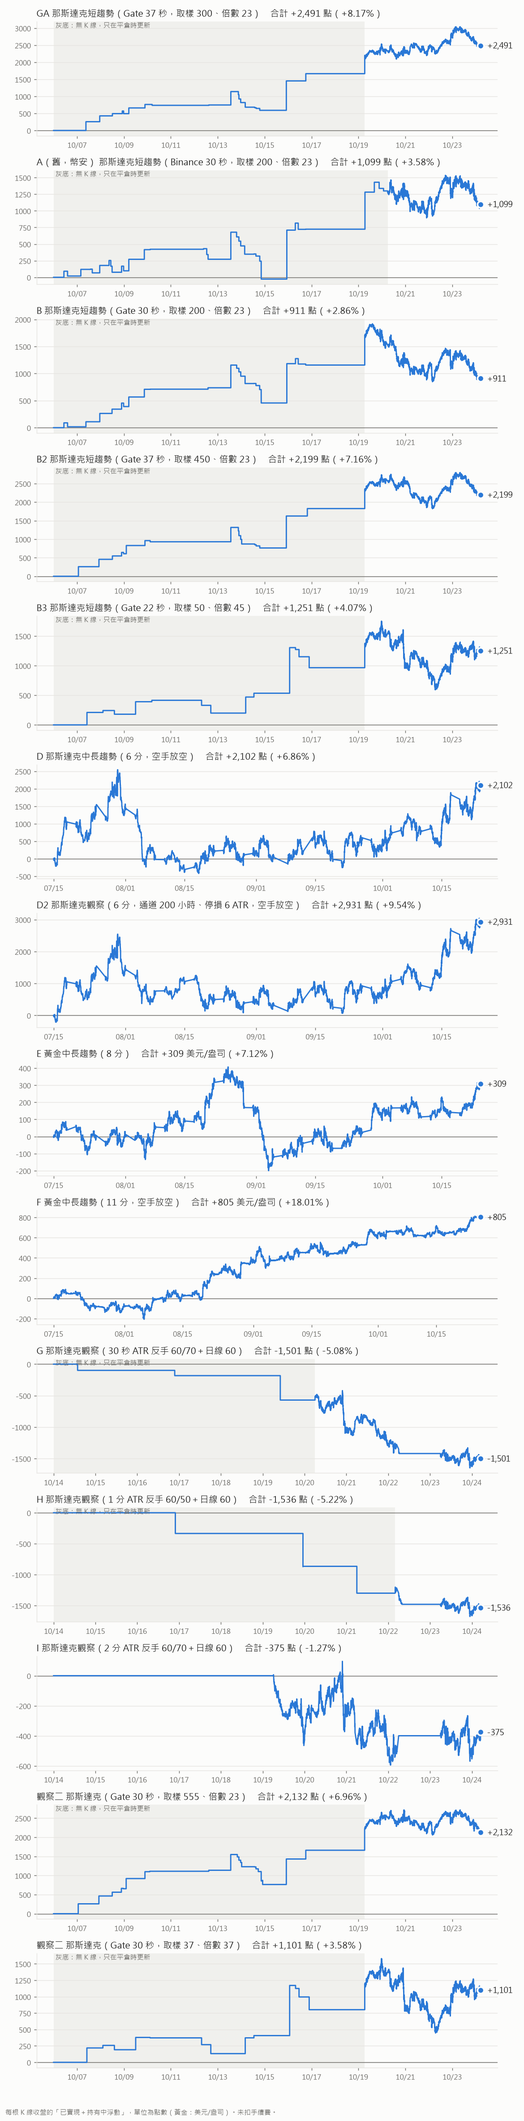
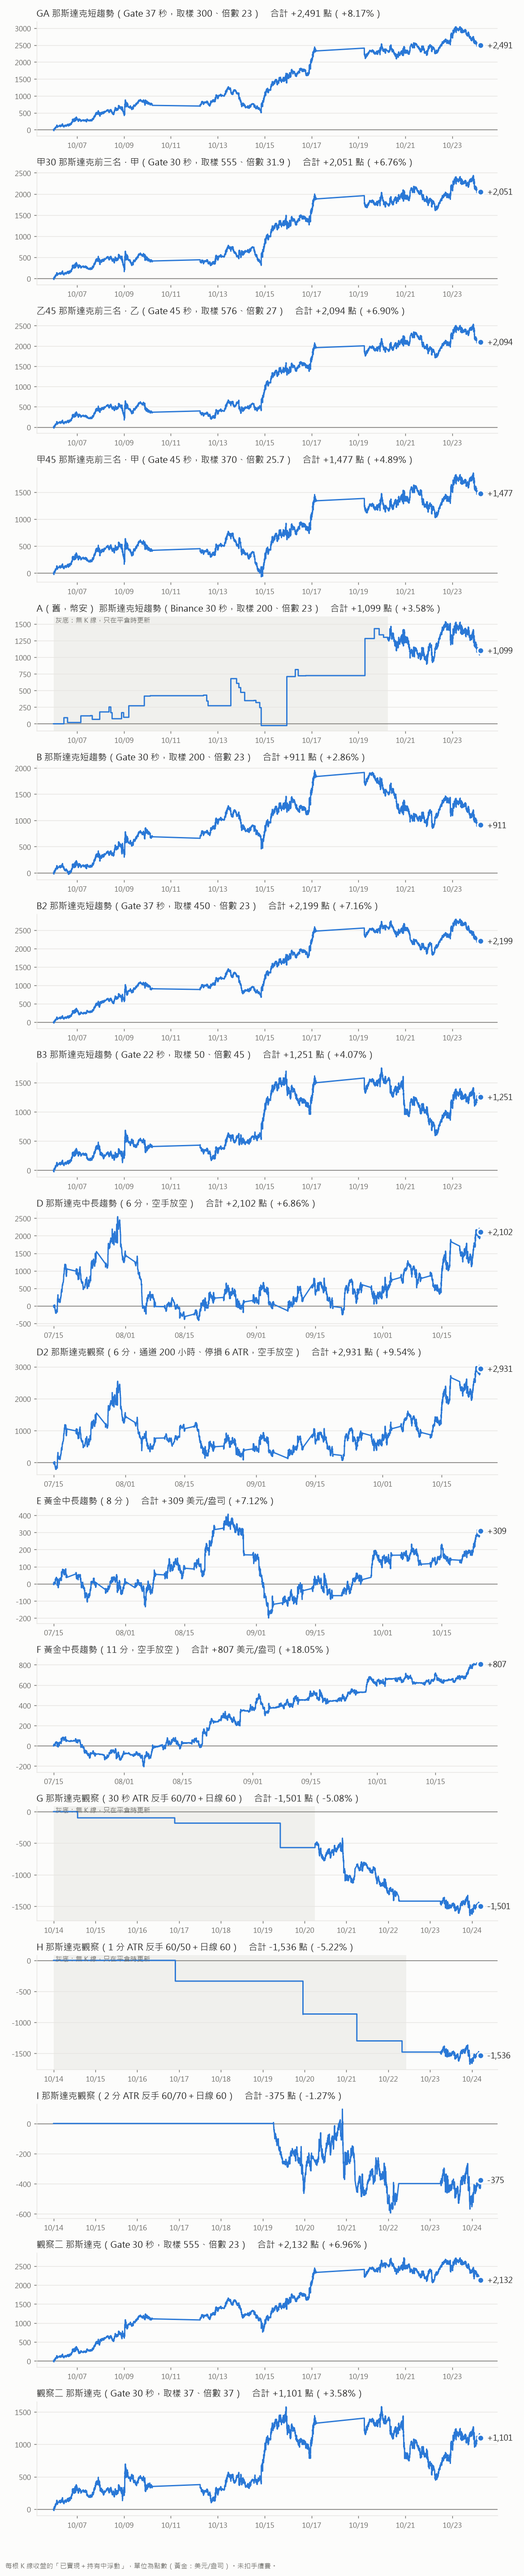
期貨趨勢 v1.27.0：GA 優化前三名加成三格，電腦版改 4 欄 × 3 列
- 第 4 欄由上而下：甲 30 秒 555/31.9、乙 45 秒 576/27、甲 45 秒 370/25.7
  （TradingView 長樣本 30＋45 秒約 400 組的排名前三），Gate 逐筆合成
- 標題寫組合名稱、商品名稱白字閃爍；手機版放在短趨勢分頁
- 交易明細與績效表加三組（紀錄代號 J30、Y45、J45，10/6 起算，10/25 以前是回算），
  網頁與紀錄程式逐筆一致
- Gate 逐筆多合成 30、45 秒，快取換名 itd-gtr-v2
- 四欄後標題列縮字、組合名稱過長用「…」收尾，現價不溢出到隔壁格

diff --git a/index.html b/index.html
@@ -3,7 +3,7 @@
 <head>
 <meta charset="utf-8">
 <meta name="viewport" content="width=device-width,initial-scale=1,viewport-fit=cover">
-<title>期貨趨勢 v1.26.2</title>
+<title>期貨趨勢 v1.27.0</title>
 <meta name="description" content="那斯達克 30 秒 Range Filter（Binance 與 Gate）、那斯達克 6 分、黃金 8 分與黃金 11 分 Donchian 的即時趨勢訊號">
 <meta name="theme-color" content="#0b0e14">
 <meta name="apple-mobile-web-app-capable" content="yes">
@@ -89,6 +89,7 @@ h1 small{font-size:11px;color:#ff2d55;font-weight:400;margin-left:5px}
 @keyframes blinkName{0%,100%{opacity:1}50%{opacity:.25}}
 .ph b.blink{animation:blinkName 2.4s ease-in-out infinite}
 .ph b.redblink{color:#ff2a2a;animation:blinkName 2.4s ease-in-out infinite}   /* v1.23.5：紅字閃爍，只動透明度不加光暈 */
+.ph b.whiteblink{color:#fff;animation:blinkName 2.4s ease-in-out infinite}   /* v1.27.0：GA 優化前三名，商品名稱白字閃爍 */
 /* v1.8.4：六格改叫 A～F（照畫面順序），標籤黃字（使用者 2026-10-13 要求） */
 .tag{font-size:11px;color:#ffd400;border:1px solid var(--line);border-radius:4px;padding:0 5px}
 .badge{font-size:12px;font-weight:700;border-radius:4px;padding:1px 8px;background:#2a2f3d;color:var(--mute)}
@@ -170,10 +171,18 @@ canvas{display:block;width:100%;height:100%;touch-action:pan-y;cursor:crosshair}
 /* v1.25.0 電腦版排版（使用者 2026-10-23 決定：手機版與電腦版同一份程式，依螢幕寬度自動切，也可手動選）。
    電腦版＝這一頁的格子並排、自動換行，可上下捲動；規則、資料、交易明細完全不動。 */
 .lay-w .app{max-width:none}
-/* 電腦版：指定的 9 格同一頁、不捲動、不翻頁，三欄三列，每格一樣大；分頁列隱藏 */
+/* 電腦版：指定的 12 格同一頁、不捲動、不翻頁，四欄三列（v1.27.0 由三欄改四欄，第 4 欄放 GA 優化前三名），每格一樣大；分頁列隱藏 */
 .lay-w #tabs{display:none}
-.lay-w .grid{display:grid;grid-template-columns:repeat(3,minmax(0,1fr));grid-template-rows:repeat(3,minmax(0,1fr));gap:6px;padding:0 8px 8px;overflow:hidden}
+.lay-w .grid{display:grid;grid-template-columns:repeat(4,minmax(0,1fr));grid-template-rows:repeat(3,minmax(0,1fr));gap:6px;padding:0 8px 8px;overflow:hidden}
 .lay-w .panel{flex:none;height:auto;min-height:0}
+/* v1.27.0 四欄後每格變窄：標題列縮字、組合名稱放不下時用「…」收尾，現價固定在最右邊不溢出到隔壁格 */
+.lay-w .ph{gap:4px;overflow:hidden;min-width:0}
+.lay-w .ph b{font-size:12.5px;flex:none}
+.lay-w .tag{font-size:10.5px;padding:0 3px;min-width:0;overflow:hidden;text-overflow:ellipsis;flex:0 1 auto}
+.lay-w .badge{font-size:11px;padding:1px 5px;flex:none}
+.lay-w .badge .tot{font-size:11px;margin-left:4px}
+.lay-w .px{font-size:13px;flex:none}
+.lay-w .px small{font-size:10.5px;margin-left:4px}
 .lay-w .grid.mx{grid-template-columns:minmax(0,1fr);grid-template-rows:minmax(0,1fr)}
 </style>
 </head>
@@ -206,7 +215,7 @@ canvas{display:block;width:100%;height:100%;touch-action:pan-y;cursor:crosshair}
 
 <script>
 "use strict";
-const VERSION = "v1.26.2";   // v1.26.2：舊幣安 A 加回交易明細與績效表（只讀正式紀錄）。v1.26.1：閃爍由 1.2 秒放慢成 2.4 秒、外框暗時亮度 15%→35%（使用者嫌刺眼）。
+const VERSION = "v1.27.0";   // v1.27.0：GA 優化前三名（甲 30 秒 555/31.9、乙 45 秒 576/27、甲 45 秒 370/25.7）加成三格，電腦版改 4 欄 × 3 列（第 4 欄），商品名稱白字閃爍；明細與績效表加三組（紀錄代號 J30、Y45、J45，10/6 起算）；Gate 逐筆多合成 30、45 秒。v1.26.2： v1.26.2：舊幣安 A 加回交易明細與績效表（只讀正式紀錄）。v1.26.1：閃爍由 1.2 秒放慢成 2.4 秒、外框暗時亮度 15%→35%（使用者嫌刺眼）。
 //    // v1.26.0：A 格改 Gate 逐筆合成 37 秒 300/23（候選①），明細與績效表的 A 改讀紀錄代號 GA；畫面名稱改叫 GA；電腦版九格外框照部位閃爍（持多螢光紅、持空螢光綠、空手無框），取代 v1.25.1 的固定藍框。所有閃爍同步。v1.25.1：圖表標題 A 改回黃字不閃爍；B2、觀察二 555/23、D2 外框螢光藍細線閃爍。v1.25.0：電腦版（同一份程式，寬 1280px 以上或手動選「電腦」）：指定 9 格同一頁三欄三列、一樣大、不捲動；同市場格子同步顯示範圍（那斯達克、台指、恆生）；表格線螢光藍；持多／持空後面放合計（已平倉＋浮動）。v1.24.0：v1.23.6：圖表標題的觀察二 37/37 也改紅字閃爍；v1.23.5：圖表標題的 A、B2、D2、觀察二 555/23 改紅字閃爍；v1.23.4：績效表與明細的 A、B2、D2、觀察二 555/23 改紅字閃爍（只動透明度，不加光暈）；v1.23.3：明細的台指 A/B、觀察二台指拿掉閃爍；v1.23.2：台指四組從 10/21 起重新記錄觀察；v1.23.1：台指 A/B、觀察二可讀 台指/tv_hist.json 補 10/06 起的舊段明細；v1.23.0：台指四格用網頁自己的策略（參數不變）、資料只用 TradingView 台指期（1 秒 K 合成各格週期），不再照抄 848、不再讀期交所；v1.22.1：台指 K 線不再等期交所盤後檔，沒有連續月 30 秒時改用 TradingView 1 秒 K 合成；v1.22.0：台指 K 線改讀 TradingView 連續月 30 秒（轉接站 /tw，收到 200 根起生效，之前照舊）；v1.21.0：台指四組的持倉、明細、績效表改照 TradingView 848（連續月）交易清單（台指/tv_signals.json）；v1.20.4：台指換月窗恢復只看盤後（TX_HOLD_ROLL＝true）；v1.20.3：台指換月窗改即時優先；v1.20.2：明細視窗標題「交易明細」→「明細」；v1.20.1：標題列「中長趨勢」→「趨勢」、「交易明細」→「明細」；v1.20.0：交易明細加「績效表」分頁
 const $ = id => document.getElementById(id);
 const FAPI = "https://fapi.binance.com/fapi/v1";
@@ -514,6 +523,22 @@ const PANELS = [
    spec:{tf:"37 秒", par:"Range Filter 取樣 300・倍數 23・多空反轉", src:"Gate QQQ 合約逐筆合成"},
    sub:"Gate QQQ 合約逐筆合成 37 秒 K・Range Filter 取樣 300・倍數 23",
    P:{per:300, mult:23, useAtr:true, atrLen:12, atrMult:1.5, useVol:true, volLen:20}},
+  /* v1.27.0（使用者 2026-10-25「前三名列入」）：GA 優化在 TradingView 長樣本（30 秒 2023-12 起、45 秒 2022-09 起，約 400 組）的排名前三。
+     37 秒甲＝450/28.5、乙＝700/30，依帶寬換算到 30 秒（倍數 ×1.12）、45 秒（÷1.11）。長樣本 1 口微型扣成本：
+     甲 30 秒 +92.3 萬／回落 −26.2、乙 45 秒 +80.6／−32.1、甲 45 秒 +79.7／−32.0（GA 換算後 +69.9／+46.6）。
+     2022-23 與 2026 年幾乎所有參數都賺不到，獲利集中在 2025。資料同 GA：Gate QQQ 合約逐筆合成。 */
+  {k:"j30", white:true, pg:"short", title:"那斯達克", tf:"甲 30秒 555/31.9（第1名）", sym:"QQQ_USDT", src:"gtr", tfSec:30, nq:true, kind:"rf", span:1e9,
+   spec:{tf:"30 秒", par:"Range Filter 取樣 555・倍數 31.9・多空反轉", src:"Gate QQQ 合約逐筆合成"},
+   sub:"Gate QQQ 合約逐筆合成 30 秒 K・Range Filter 取樣 555・倍數 31.9（GA 優化第 1 名・甲）",
+   P:{per:555, mult:31.9, useAtr:true, atrLen:12, atrMult:1.5, useVol:true, volLen:20}},
+  {k:"y45", white:true, pg:"short", title:"那斯達克", tf:"乙 45秒 576/27（第2名）", sym:"QQQ_USDT", src:"gtr", tfSec:45, nq:true, kind:"rf", span:1e9,
+   spec:{tf:"45 秒", par:"Range Filter 取樣 576・倍數 27・多空反轉", src:"Gate QQQ 合約逐筆合成"},
+   sub:"Gate QQQ 合約逐筆合成 45 秒 K・Range Filter 取樣 576・倍數 27（GA 優化第 2 名・乙）",
+   P:{per:576, mult:27, useAtr:true, atrLen:12, atrMult:1.5, useVol:true, volLen:20}},
+  {k:"j45", white:true, pg:"short", title:"那斯達克", tf:"甲 45秒 370/25.7（第3名）", sym:"QQQ_USDT", src:"gtr", tfSec:45, nq:true, kind:"rf", span:1e9,
+   spec:{tf:"45 秒", par:"Range Filter 取樣 370・倍數 25.7・多空反轉", src:"Gate QQQ 合約逐筆合成"},
+   sub:"Gate QQQ 合約逐筆合成 45 秒 K・Range Filter 取樣 370・倍數 25.7（GA 優化第 3 名・甲）",
+   P:{per:370, mult:25.7, useAtr:true, atrLen:12, atrMult:1.5, useVol:true, volLen:20}},
   /* v1.6.0：A-2（取樣 400・倍數 16）拿掉，改放 Gate 版（使用者 2026-10-12 指定）。
      規則與 A-1 完全相同（30 秒 Range Filter 200/23），只換資料源：Gate QQQ_USDT 合約的原生 30 秒 K。
      為什麼：Binance 擋 Cloudflare，A-1 沒辦法雲端推播；Gate 連得到，LINE 推播改推這組。
@@ -997,7 +1022,7 @@ function buildDOM(){
   $("ver").textContent = VERSION;
   $("grid").innerHTML = PANELS.map(p => `
   <section class="panel" id="p-${p.k}">
-    <div class="ph"><b${p.red?' class="redblink"':p.blink?' class="blink"':''}>${p.title}</b><span class="tag">${p.tf}</span><span class="badge" id="dir-${p.k}">—</span><span class="px" id="px-${p.k}"></span></div>
+    <div class="ph"><b${p.red?' class="redblink"':p.white?' class="whiteblink"':p.blink?' class="blink"':''}>${p.title}</b><span class="tag">${p.tf}</span><span class="badge" id="dir-${p.k}">—</span><span class="px" id="px-${p.k}"></span></div>
     <div class="kv" id="kv-${p.k}"></div>
     <div class="cw">
       <canvas id="cv-${p.k}"></canvas>
@@ -1170,6 +1195,9 @@ function renderInfo(p){
    紀錄用逐筆合成），下次開工跑紀錄後以正式紀錄為準。 */
 const TRADE_K = [
   {k:"GA", pk:"rf",    name:"GA",   unit:"點"},   // v1.26.0 A 改 Gate 37 秒 300/23（紀錄代號 GA）；舊幣安 A（紀錄代號 A）不再列
+  {k:"J30", pk:"j30", name:"甲 30秒 555/31.9（第1名）", unit:"點"},   // v1.27.0 GA 優化前三名，紀錄代號 J30／Y45／J45，10/6 起算（10/25 以前是回算）
+  {k:"Y45", pk:"y45", name:"乙 45秒 576/27（第2名）", unit:"點"},
+  {k:"J45", pk:"j45", name:"甲 45秒 370/25.7（第3名）", unit:"點"},
   {k:"A", pk:"a_old",  name:"舊 A",  unit:"點"},   // v1.26.2 使用者要求加回明細與績效表：格子已拿掉，只讀正式紀錄、沒有◆與浮動
   {k:"G", pk:"gate",   name:"B",    unit:"點"},
   {k:"G2", pk:"gate2", red:true, name:"B2",   unit:"點"},   // v1.23.4 紅字閃爍（取代原黃底閃爍）   // v1.10.0 起 37 秒 450/23（Gate 逐筆合成）
@@ -1387,7 +1415,8 @@ function specBar(T){
    - 篩選：已平倉 ≥ 20、獲利因子 ≥ 1.5、合計 > 0 三項都過才通過；篩選名次依獲利因子由高到低；未滿 1.55 加註。
    - 開工回報用的 skills/index-trend-ops/scripts/daily_table.js 是同一套規則，改這裡要兩邊一起改。 */
 const SUM_NAME = {
-  GA:"那斯達克・GA（37 秒 300/23）", A:"那斯達克・舊 A（幣安 30 秒）", G:"那斯達克・B（30 秒）", G2:"那斯達克・B2（37 秒）", G3:"那斯達克・B3（22 秒）",
+  GA:"那斯達克・GA（37 秒 300/23）", J30:"那斯達克・甲（30 秒 555/31.9，第1名）", Y45:"那斯達克・乙（45 秒 576/27，第2名）", J45:"那斯達克・甲（45 秒 370/25.7，第3名）",
+  A:"那斯達克・舊 A（幣安 30 秒）", G:"那斯達克・B（30 秒）", G2:"那斯達克・B2（37 秒）", G3:"那斯達克・B3（22 秒）",
   C:"那斯達克・D（6 分）", C2:"那斯達克・D2（6 分）", D:"黃金・E（8 分）", E:"黃金・F（11 分）",
   TX1:"台指・A/B", TX2:"台指・B2", TX3:"台指・B3", TX4:"台指・觀察二 台指",
   O1:"那斯達克・觀察二 555/23", O2:"那斯達克・觀察二 37/37", HSI:"恆生・觀察二 恆生",
@@ -1502,8 +1531,9 @@ function setMax(k){
 document.addEventListener("keydown", e => { if(e.key === "Escape" && MAXK) setMax(null); });
 /* v1.25.0 排版：手機版（分頁單欄）或電腦版（15 格同一頁）。自動＝螢幕寬 1280px 以上用電腦版；手動選的存在這台瀏覽器。 */
 const LAY_KEY = "itd-layout", LAY_NEXT = {auto:"m", m:"w", w:"auto"}, LAY_TXT = {auto:"自動", m:"手機", w:"電腦"};
-/* 電腦版保留的 9 格與位置（列, 欄）：第 1 列 A、B2、那斯達克觀察二 555/23；第 2 列 D2、台指 B2、台指觀察二；第 3 列 黃金 F、黃金 E、恆生觀察二 */
-const BOARD_AT = {rf:[1,1], gate2:[1,2], o2nq:[1,3], nq6b:[2,1], tx37:[2,2], o2tx:[2,3], gold11:[3,1], gold8:[3,2], o2hsi:[3,3]};
+/* 電腦版保留的 12 格與位置（列, 欄）：第 1 列 A、B2、那斯達克觀察二 555/23；第 2 列 D2、台指 B2、台指觀察二；第 3 列 黃金 F、黃金 E、恆生觀察二；
+   v1.27.0 第 4 欄由上而下 GA 優化第 1～3 名（甲 30 秒、乙 45 秒、甲 45 秒） */
+const BOARD_AT = {rf:[1,1], gate2:[1,2], o2nq:[1,3], j30:[1,4], nq6b:[2,1], tx37:[2,2], o2tx:[2,3], y45:[2,4], gold11:[3,1], gold8:[3,2], o2hsi:[3,3], j45:[3,4]};
 function layMode(){ try{ return localStorage.getItem(LAY_KEY) || "auto"; }catch(e){ return "auto"; } }
 function applyLayout(){
   const mode = layMode(), wide = mode === "w" || (mode === "auto" && window.innerWidth >= 1280);
@@ -1688,7 +1718,7 @@ function setHoverT(t){
 /* 同步顯示範圍（使用者 2026-10-23 要求）：那斯達克、台指、恆生各自一組，組內任一格縮放或拖曳，其他格顯示同一段時間。黃金不同步。
    只在使用者動過圖之後才同步；格子的 K 棒週期不同（30 秒、37 秒、6 分…），所以用時間對齊、不用根數。 */
 const SYNC_GROUP = {};
-for(const [g, keys] of Object.entries({nq:["rf","gate","gate2","gate3","nq6","nq6b","o2nq","o2nq37"], tx:["tx30","tx37","tx22","o2tx"], hsi:["o2hsi"]}))
+for(const [g, keys] of Object.entries({nq:["rf","gate","gate2","gate3","nq6","nq6b","o2nq","o2nq37","j30","y45","j45"], tx:["tx30","tx37","tx22","o2tx"], hsi:["o2hsi"]}))
   for(const k of keys) SYNC_GROUP[k] = g;
 function syncView(p){
   const g = SYNC_GROUP[p.k];
@@ -1811,7 +1841,7 @@ async function pollGate(p){
    同一毫秒的成交依價格、數量排序（同 Python 的 tuple 排序）。
    第一次往回抓 5 天（B2 暖機約 2,700 根≈28 個交易小時，中間可能隔週末），每 15 分鐘一段、8 段同時抓、滿 1,000 筆對半切；
    合成好的 K 每分鐘存進瀏覽器，重開時丟掉最後 10 分鐘那幾根、只從那裡補抓。之後每 10 秒輪詢新成交（只收編號更大的）。 */
-const GTR = {bars:{}, lastId:0, lastT:0, ready:false}, GTR_TFS = [37, 22], GTR_KEY = "itd-gtr-v1";
+const GTR = {bars:{}, lastId:0, lastT:0, ready:false}, GTR_TFS = [37, 22, 30, 45], GTR_KEY = "itd-gtr-v2";   // v1.27.0 加 30、45 秒（前三名），快取換名讓第一次重抓 5 天
 const gtrTr = x => [Math.round(+x.create_time * 1000), +x.price, Math.abs(+x.size), x.id];
 const gtrSort = (a, b) => a[0] - b[0] || a[1] - b[1] || a[2] - b[2];
 function gtrAdd(B, ms, trades){
@@ -1848,7 +1878,7 @@ async function gtrFetch(fromMs, prog){
     while(i < segs.length){
       const s = segs[i++];
       for(const x of await gtrPage(s[0], s[1])) got.set(x.id, x);
-      done++; if(prog) setLoad("gtr", done / segs.length, `Gate 逐筆（A、B2、B3）${Math.round(done / segs.length * 100)}%`);
+      done++; if(prog) setLoad("gtr", done / segs.length, `Gate 逐筆（GA、B2、B3、前三名）${Math.round(done / segs.length * 100)}%`);
     }
   };
   await Promise.all(Array.from({length:8}, worker));

diff --git a/實際紀錄/更新紀錄.py b/實際紀錄/更新紀錄.py
@@ -48,7 +48,10 @@ def ms(y, m, d, h=0):  # 台北時間 → 毫秒
 # B（畫面 C）是 Hyperliquid，只能回溯約 3.5 天，紀錄早已從 10/8 開始，回不到 10/6，維持 10/8。
 START = {"A": ms(2026, 10, 6), "A2": ms(2026, 10, 6), "G": ms(2026, 10, 6), "B": ms(2026, 10, 8), "C": ms(2026, 7, 15), "D": ms(2026, 7, 15), "E": ms(2026, 7, 15),
          "R30": ms(2026, 10, 14), "R1": ms(2026, 10, 14), "R2": ms(2026, 10, 14), "C2": ms(2026, 7, 15), "G2": ms(2026, 10, 6), "G3": ms(2026, 10, 6),
-         "O1": ms(2026, 10, 6), "O2": ms(2026, 10, 6), "GA": ms(2026, 10, 6)}
+         "O1": ms(2026, 10, 6), "O2": ms(2026, 10, 6), "GA": ms(2026, 10, 6),
+         "J30": ms(2026, 10, 6), "Y45": ms(2026, 10, 6), "J45": ms(2026, 10, 6)}
+# J30、Y45、J45（2026-10-25 使用者要求「前三名列入」）：GA 優化（TradingView 長樣本 30＋45 秒約 400 組）排名前三，
+#   甲 30 秒 555/31.9、乙 45 秒 576/27、甲 45 秒 370/25.7（37 秒甲＝450/28.5、乙＝700/30 換算過來）。Gate 逐筆合成，起算 10/6，10/25 以前是回算。
 # GA（2026-10-24 使用者要求「把 A 換成候選①」）：畫面 A 格改 Gate 逐筆合成 37 秒、Range Filter 300/23，起算 10/6，10/24 以前是回算。
 #   參數是 10/6～10/24 掃 20～40 秒 × 11,550 組挑的（同一段資料，會偏好看）。舊 A（幣安 30 秒 200/23）照樣更新、不刪，畫面上不再叫 A。
 # O1、O2（畫面「觀察二」那斯達克兩格，2026-10-18 使用者要求列進交易明細）：同 G 的 Gate 30 秒（逐筆合成），
@@ -60,16 +63,18 @@ START = {"A": ms(2026, 10, 6), "A2": ms(2026, 10, 6), "G": ms(2026, 10, 6), "B":
 # 10/15 以前是回算、不是當時實際記的。換月（12/11）時跟 R2 一樣還不會記換倉。
 # 2026-10-14 使用者要求 D、E 回溯拉到最大：XAUUSDT 2025/12/11 上市、PAXGUSDT 1 分 K 從 2020/08/28，各扣 350 小時暖機。
 # C 維持 8/15：單一月份合約的真 5 分 K 只有 60 天，更早只剩小時 K（9 月約已下市）。
-ORDER = ["GA", "A", "G", "G2", "G3", "C", "C2", "D", "E", "R30", "R1", "R2", "O1", "O2"]
+ORDER = ["GA", "J30", "Y45", "J45", "A", "G", "G2", "G3", "C", "C2", "D", "E", "R30", "R1", "R2", "O1", "O2"]
 # LABEL 是畫面代號（v1.8.4 起照畫面順序叫 A～F），只用在印績效與曲線圖標題；紀錄檔「格子」欄仍是左邊的內部代號。
-LABEL = {"GA": "GA", "A": "A（舊，幣安）", "A2": "A-2", "G": "B", "B": "C", "C": "D", "D": "E", "E": "F", "R30": "G", "R1": "H", "R2": "I", "C2": "D2", "G2": "B2", "G3": "B3", "O1": "觀察二", "O2": "觀察二"}
+LABEL = {"GA": "GA", "A": "A（舊，幣安）", "A2": "A-2", "G": "B", "B": "C", "C": "D", "D": "E", "E": "F", "R30": "G", "R1": "H", "R2": "I", "C2": "D2", "G2": "B2", "G3": "B3", "O1": "觀察二", "O2": "觀察二", "J30": "甲30", "Y45": "乙45", "J45": "甲45"}
 NAME = {"A": "那斯達克短趨勢（Binance 30 秒，取樣 200、倍數 23）", "A2": "那斯達克短趨勢（取樣 400、倍數 16）", "G": "那斯達克短趨勢（Gate 30 秒，取樣 200、倍數 23）", "B": "那斯達克短趨勢（1 分，取樣 100、倍數 16）", "C": "那斯達克中長趨勢（6 分，空手放空）", "D": "黃金中長趨勢（8 分）", "E": "黃金中長趨勢（11 分，空手放空）",
         "R30": "那斯達克觀察（30 秒 ATR 反手 60/70＋日線 60）", "R1": "那斯達克觀察（1 分 ATR 反手 60/50＋日線 60）", "R2": "那斯達克觀察（2 分 ATR 反手 60/70＋日線 60）",
         "C2": "那斯達克觀察（6 分，通道 200 小時、停損 6 ATR，空手放空）",
         "G2": "那斯達克短趨勢（Gate 37 秒，取樣 450、倍數 23）",
         "G3": "那斯達克短趨勢（Gate 22 秒，取樣 50、倍數 45）",
         "GA": "那斯達克短趨勢（Gate 37 秒，取樣 300、倍數 23）",
-        "O1": "那斯達克（Gate 30 秒，取樣 555、倍數 23）", "O2": "那斯達克（Gate 30 秒，取樣 37、倍數 37）"}
+        "O1": "那斯達克（Gate 30 秒，取樣 555、倍數 23）", "O2": "那斯達克（Gate 30 秒，取樣 37、倍數 37）",
+        "J30": "那斯達克前三名・甲（Gate 30 秒，取樣 555、倍數 31.9）", "Y45": "那斯達克前三名・乙（Gate 45 秒，取樣 576、倍數 27）",
+        "J45": "那斯達克前三名・甲（Gate 45 秒，取樣 370、倍數 25.7）"}
 GOLD = ("D", "E")   # 單位是美元/盎司
 
 # C 格合約與換月日（CME 慣例：到期前約一週的週四換到下一季）。過了最後一列要往下加
@@ -598,7 +603,8 @@ if __name__ == "__main__":
     # B2（G2，37 秒 450/23）、B3（G3，22 秒 50/45）共用同一份逐筆，各自合成；
     # B2 暖機約 2,700 根（約 28 個交易小時），第一次從起算日往前多抓 5 天（中間有週末休市）
     gsince = min(last_t("G", START["G"]), last_t("G2", START["G2"] - 2 * 86400000), last_t("G3", START["G3"] - 2 * 86400000),
-                 last_t("O1", START["O1"] - 2 * 86400000), last_t("O2", START["O2"] - 2 * 86400000), last_t("GA", START["GA"] - 2 * 86400000), NOW) - 3 * 86400000
+                 last_t("O1", START["O1"] - 2 * 86400000), last_t("O2", START["O2"] - 2 * 86400000), last_t("GA", START["GA"] - 2 * 86400000),
+                 last_t("J30", START["J30"] - 2 * 86400000), last_t("Y45", START["Y45"] - 3 * 86400000), last_t("J45", START["J45"] - 2 * 86400000), NOW) - 3 * 86400000
     GTR = gate_trades(gsince)
     BG = bars_G(gsince, 30, GTR); posG, wG = calc_rf(BG, 200, 23)
     added += update("G", BG, posG, wG, "QQQ_USDT", nqconv)
@@ -611,6 +617,14 @@ if __name__ == "__main__":
     added += update("G2", BG2, posG2, wG2, "QQQ_USDT", nqconv); LAST["G2"] = (BG2[-1][4], BG2[-1][0], nqconv(BG2[-1][0], BG2[-1][4]))
     posGA, wGA = calc_rf(BG2, 300, 23)   # 畫面 A：同 B2 的 37 秒 K
     added += update("GA", BG2, posGA, wGA, "QQQ_USDT", nqconv); LAST["GA"] = LAST["G2"]
+    posJ30, wJ30 = calc_rf(BG, 555, 31.9)   # 前三名・甲 30 秒：同 B 的 30 秒 K
+    added += update("J30", BG, posJ30, wJ30, "QQQ_USDT", nqconv); LAST["J30"] = LAST["G"]
+    BG45 = bars_G(gsince, 45, GTR)          # 前三名・乙／甲 45 秒共用
+    LAST45 = (BG45[-1][4], BG45[-1][0], nqconv(BG45[-1][0], BG45[-1][4]))
+    posY45, wY45 = calc_rf(BG45, 576, 27)
+    added += update("Y45", BG45, posY45, wY45, "QQQ_USDT", nqconv); LAST["Y45"] = LAST45
+    posJ45, wJ45 = calc_rf(BG45, 370, 25.7)
+    added += update("J45", BG45, posJ45, wJ45, "QQQ_USDT", nqconv); LAST["J45"] = LAST45
     BG3 = bars_G(gsince, 22, GTR); posG3, wG3 = calc_rf(BG3, 50, 45)
     added += update("G3", BG3, posG3, wG3, "QQQ_USDT", nqconv); LAST["G3"] = (BG3[-1][4], BG3[-1][0], nqconv(BG3[-1][0], BG3[-1][4]))
 
@@ -657,7 +671,7 @@ if __name__ == "__main__":
     posR2, wR2 = calc_atr_rev(BR2, 60, 70, 60, DAILY)
     added += update("R2", BR2, posR2, wR2, act[1]); LAST["R2"] = (BR2[-1][4], BR2[-1][0], None)
 
-    BARS = {"A": BA, "G": BG, "B": BB, "C": BC, "D": BD, "E": BE, "R30": BA, "R1": BB, "R2": BR2, "C2": BC, "G2": BG2, "G3": BG3, "O1": BG, "O2": BG, "GA": BG2}
+    BARS = {"A": BA, "G": BG, "B": BB, "C": BC, "D": BD, "E": BE, "R30": BA, "R1": BB, "R2": BR2, "C2": BC, "G2": BG2, "G3": BG3, "O1": BG, "O2": BG, "GA": BG2, "J30": BG, "Y45": BG45, "J45": BG45}
     allrows = [r for r in LOG_ROWS if r not in added] + added
     allrows.sort(key=lambda r: (r["格子"], int(r["時間戳"])))
     save_log(allrows)
